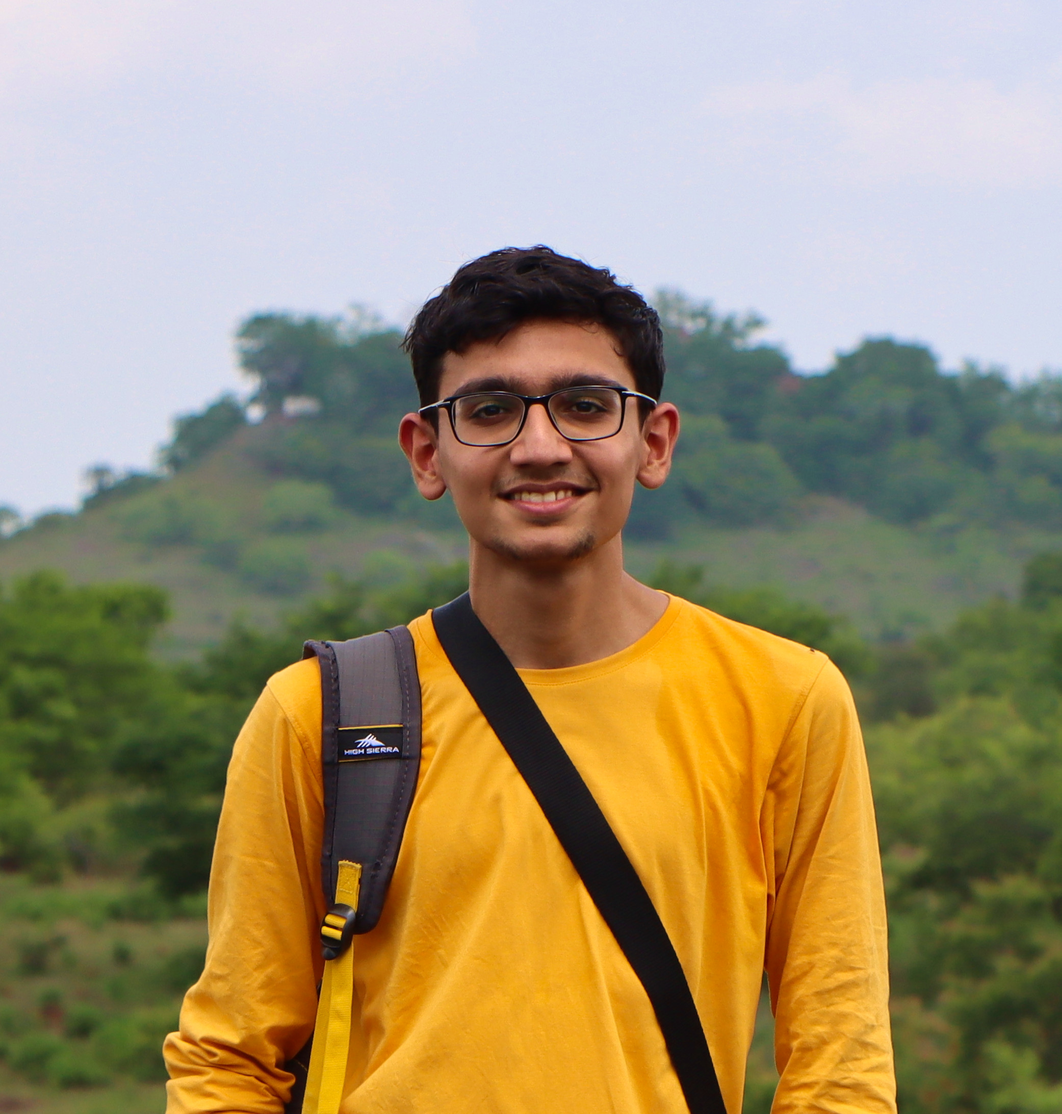
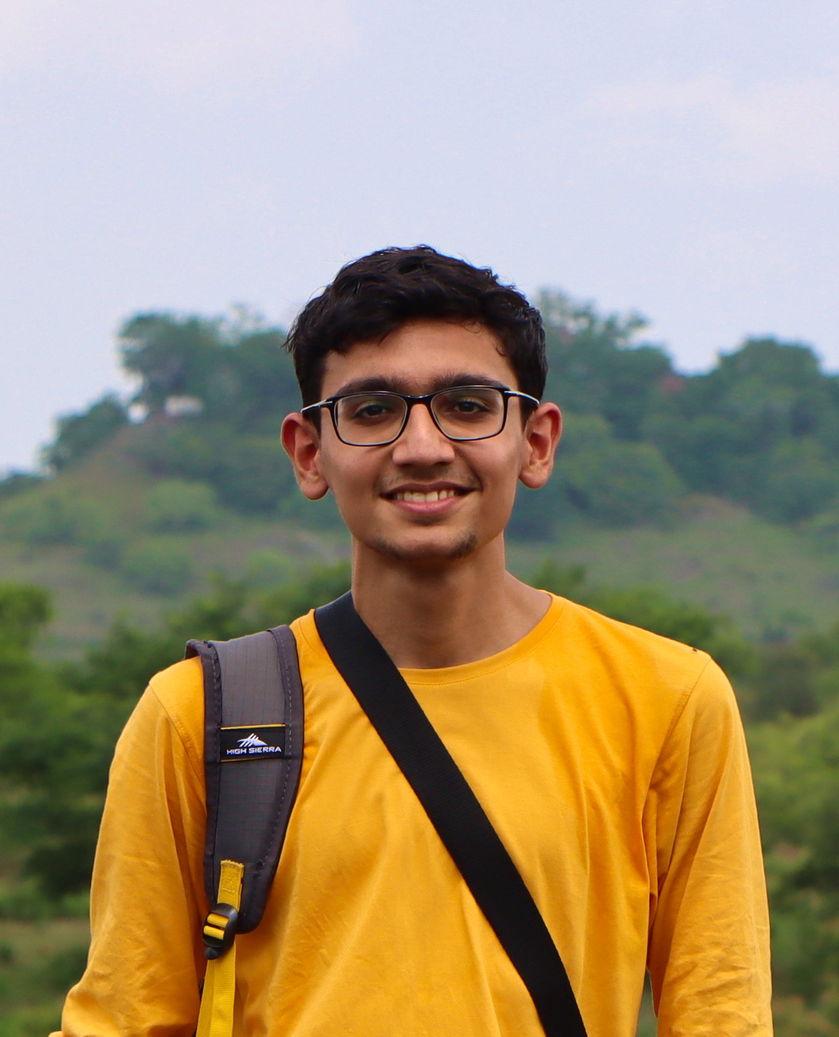
profile changes

diff --git a/components/About.js b/components/About.js
@@ -1,21 +1,39 @@
-import { Heading, Flex } from '@chakra-ui/react';
+import { Heading, Flex, Text, Box } from '@chakra-ui/react';
 
 export default function About() {
+  const mouseEnter = (e) => {
+    console.log(e);
+  };
   return (
-    <section className="section">
+    <section onMouseEnter={mouseEnter} id="about" className="section">
       <Flex justifyContent="center" flexDirection="column" height="100%">
-        <Flex margin="0px 100px" direction="row" align="flex-start">
+        <Flex margin="20px 15%" direction="row" align="flex-start">
           <Heading letterSpacing="wider" fontSize="7xl">
             Me & Myself
           </Heading>
         </Flex>
-        <Flex>
-          <div className="image">
-            <div className="image-grey-right"></div>
-            <div className="image-grey-middle"></div>
-            <div className="image-grey-left"></div>
-          </div>
-          {/* <img src="/static/image/profile.jpg" /> */}
+        <Flex margin="20px 10%" justifyContent="flex-start">
+          <Box height="1px" width="30%" backgroundColor="aliceblue"></Box>
+        </Flex>
+        <Flex margin="20px 15%" direction="row" align="flex-start">
+          <Flex direction="column" maxWidth="40%" alignContent="space-around">
+            <Text fontSize="lg" letterSpacing="wide" margin="10px">
+              I am a Full Stack Web Developer located in India. I enjoy creating
+              things for the web. I have a passion for trying out new things
+              that I find interesting. Started Web Development for a college
+              project, I grew interest in it and haven't looked back since.
+            </Text>
+            <Text fontSize="lg" letterSpacing="wide" margin="10px">
+              Problem solver, well organized with high attention to details. I
+              am a tech enthusiast and like to understand core things about
+              tech.
+            </Text>
+          </Flex>
+          <Flex margin="-10% 0px 0px 15%">
+            <div className="image">
+              <div className="image-grey-right"></div>
+            </div>
+          </Flex>
         </Flex>
       </Flex>
     </section>

diff --git a/styles/globals.css b/styles/globals.css
@@ -93,10 +93,17 @@ body {
 .image {
   position: absolute;
   background-image: url("/static/image/profile.jpg");
-  min-height: 300px;
+  height: auto;
+  width: auto;
+  min-height: 400px;
+  max-height: 600px;
   min-width: 300px;
+  max-width: 600px;
   background-size: cover;
   background-repeat: no-repeat;
+  filter: grayscale(100%);
+  transition-duration: 400ms;
+  border-radius: 15px;
 }
 
 .image-grey-right {
@@ -110,23 +117,11 @@ body {
   right: 0;
 }
 
+.image:hover {
+  filter: none;
+}
+
 .image .image-grey-right:hover {
   -webkit-filter: grayscale(100%);
   border-right-color: rgba(44, 44, 44, 0.5);
-}
-
-.image-grey-left {
-  position: absolute;
-  width: 200px;
-  height: 200px;
-  border-top: 200px solid transparent;
-  border-right: 200px solid transparent;
-  transition-duration: 400ms;
-  top: 0;
-  left: 0;
-}
-
-.image .image-grey-left:hover {
-  -webkit-filter: grayscale(100%);
-  border-top-color: rgba(44, 44, 44, 0.5);
 }
